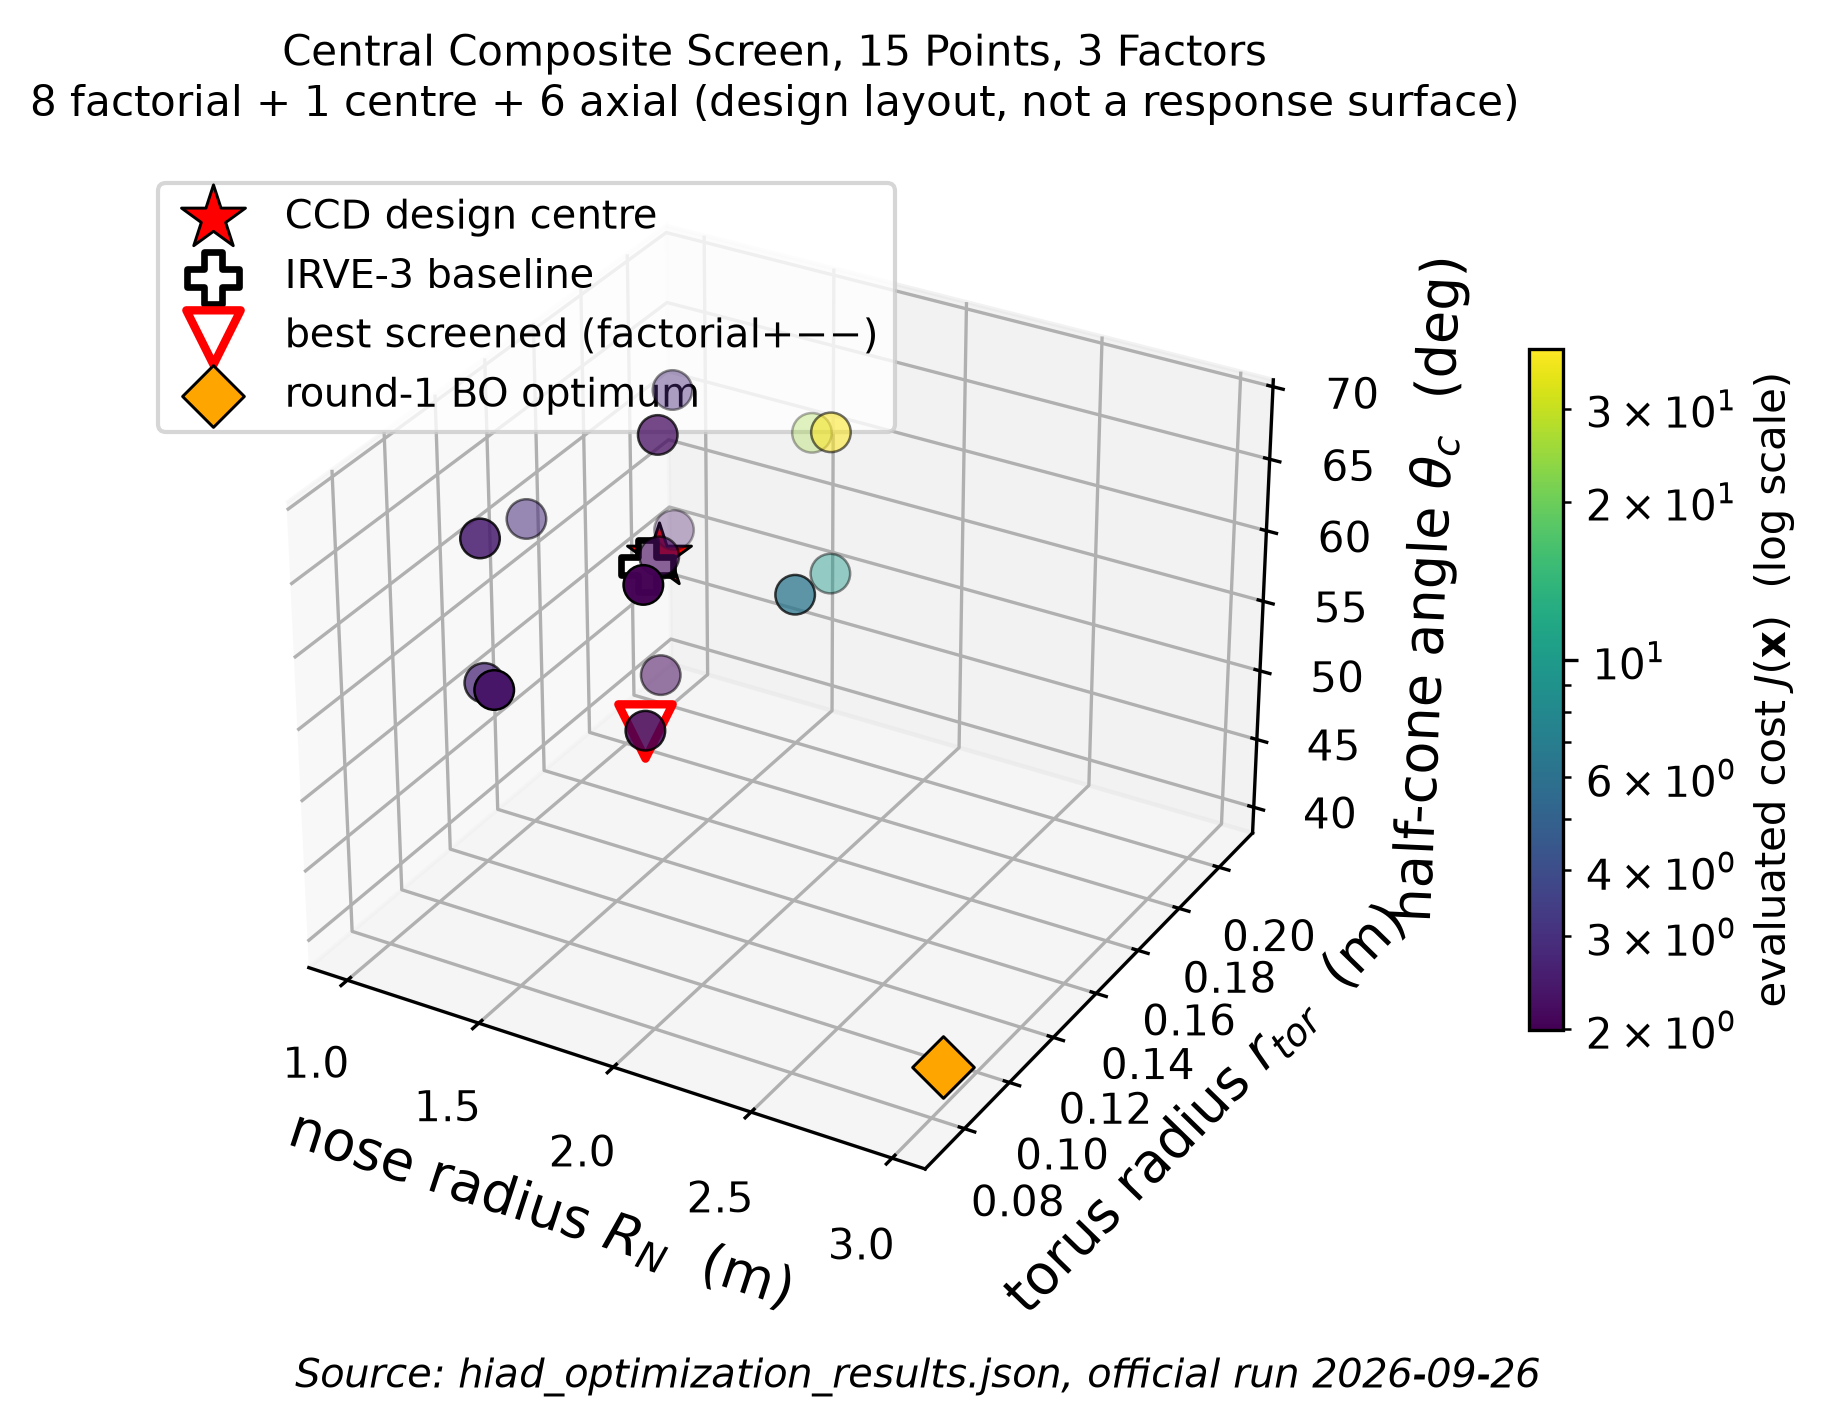
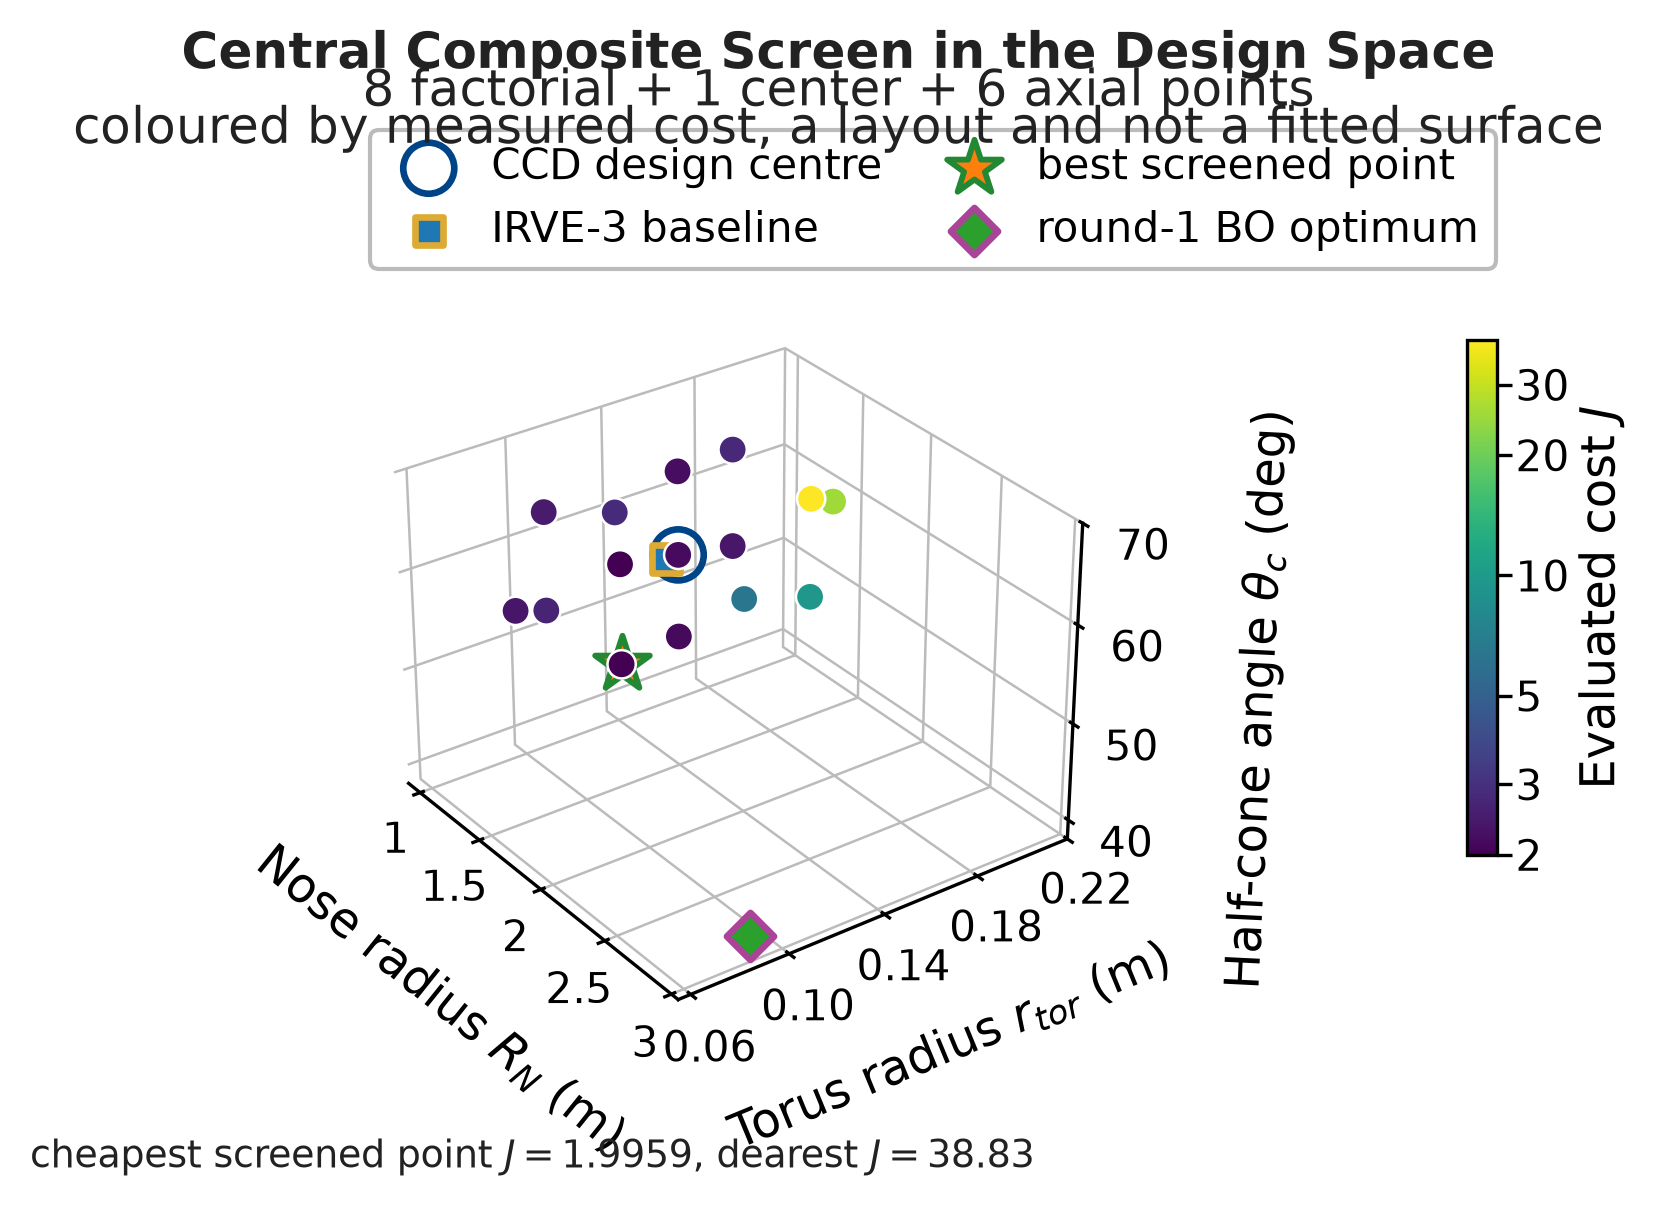
fix(thesis): A11 BO CCD legend (opaque, outside axes) + camera 15/15 points

Changed region(s): [[0.0, 0.0, 0.9855, 0.9809]]

diff --git a/Lost+Found/ProgressReport/CurrentThesisFinalReport/figures/make_bo_ccd_design.py b/Lost+Found/ProgressReport/CurrentThesisFinalReport/figures/make_bo_ccd_design.py
@@ -156,7 +156,13 @@ def build(data: dict):
     # axis labels hung 0.234 in and 0.208 in below the canvas, because labelpad
     # pushes those labels outward from the cube rather than from the axes box.
     # Raising the axes floor to 0.09 clears both with margin.
-    ax = fig.add_axes([0.00, 0.09, 0.86, 0.79], projection="3d")
+    # A11 MED: the rect changes from [0, 0.09, 0.86, 0.79] reserve the band
+    # above the cube for the two-row legend. Floor 0.09 -> 0.12 and height
+    # 0.79 -> 0.64 keep the axes top at 0.76 for that band while lifting the
+    # cube 0.12 in clear of the bottom: at the 0.67-height cube the projected
+    # y-axis label reached 0.035 in below the canvas (measured by
+    # assert_inside_canvas), and 0.12 clears it with margin.
+    ax = fig.add_axes([0.00, 0.12, 0.86, 0.64], projection="3d")
     cax = fig.add_axes([0.885, 0.28, 0.018, 0.44])
 
     norm = LogNorm(vmin=float(costs.min()), vmax=float(costs.max()))
@@ -174,21 +180,31 @@ def build(data: dict):
     best_row = samples[best_index]
 
     ring_kwargs = dict(facecolors="none", linewidths=1.6, s=150)
-    ax.scatter([float(center_row["R_N"])], [float(center_row["r_tor"])],
-               [float(center_row["half_cone_deg"])], edgecolors=CB[0], **ring_kwargs)
-    ax.scatter([float(default_row["R_N"])], [float(default_row["r_tor"])],
-               [float(default_row["half_cone_deg"])],
-               marker="s", edgecolors=CB[1], linewidths=1.6, s=44, depthshade=False)
-    ax.scatter([float(best_row["R_N"])], [float(best_row["r_tor"])],
-               [float(best_row["half_cone_deg"])],
-               marker="*", edgecolors=CB[3], linewidths=1.4, s=190, depthshade=False)
-    ax.scatter([float(optimum_row["R_N"])], [float(optimum_row["r_tor"])],
-               [float(optimum_row["half_cone_deg"])],
-               marker="D", edgecolors=CB[4], linewidths=1.6, s=64, depthshade=False)
+    ring_sc = ax.scatter([float(center_row["R_N"])], [float(center_row["r_tor"])],
+                         [float(center_row["half_cone_deg"])], edgecolors=CB[0],
+                         **ring_kwargs)
+    base_sc = ax.scatter([float(default_row["R_N"])], [float(default_row["r_tor"])],
+                         [float(default_row["half_cone_deg"])],
+                         marker="s", edgecolors=CB[1], linewidths=1.6, s=44,
+                         depthshade=False)
+    best_sc = ax.scatter([float(best_row["R_N"])], [float(best_row["r_tor"])],
+                         [float(best_row["half_cone_deg"])],
+                         marker="*", edgecolors=CB[3], linewidths=1.4, s=190,
+                         depthshade=False)
+    opt_sc = ax.scatter([float(optimum_row["R_N"])], [float(optimum_row["r_tor"])],
+                        [float(optimum_row["half_cone_deg"])],
+                        marker="D", edgecolors=CB[4], linewidths=1.6, s=64,
+                        depthshade=False)
 
     ax.set_xlim(*X_LIM)
     ax.set_ylim(*Y_LIM)
     ax.set_zlim(*Z_LIM)
+    # A11 LOW: at the default 3D view (elev 30, azim -60) the best-screened
+    # star rested on the centre ring and the two top factorial points merged
+    # into a single blob, so only about 14 of the 15 screened points were
+    # individually readable. A 6 deg azimuth change separates both pairs at
+    # print size while every axis face stays equally legible.
+    ax.view_init(elev=30, azim=-36)
     ax.set_xticks(X_TICKS)
     ax.set_xticklabels([f"{value:g}" for value in X_TICKS], fontsize=TICK_PT)
     ax.set_yticks(Y_TICKS)
@@ -224,12 +240,41 @@ def build(data: dict):
     bar.set_label("Evaluated cost $J$", fontsize=MATH_PT, labelpad=2)
     bar.outline.set_linewidth(0.8)
 
+    # A11 MED: the four reference markers were unlabeled after the marker
+    # refresh, and the shipped panel still carried the old in-axes legend
+    # whose translucent frame sat over the cube with a data point inside it
+    # and the grid showing through. The legend now lives OUTSIDE the axes as
+    # one opaque row in the band reserved above the cube: framealpha 1.0
+    # with a white face means neither grid lines nor data points can show
+    # through, and because the row sits above the cube it covers no point.
+    legend = ax.legend(
+        handles=[ring_sc, base_sc, best_sc, opt_sc],
+        labels=[
+            "CCD design centre",
+            "IRVE-3 baseline",
+            "best screened point",
+            "round-1 BO optimum",
+        ],
+        loc="lower left",
+        bbox_to_anchor=(0.0, 1.005),
+        ncol=2,
+        fontsize=TICK_PT,
+        frameon=True,
+        framealpha=1.0,
+        facecolor="white",
+        edgecolor=GRID,
+        borderpad=0.4,
+        columnspacing=1.2,
+        handletextpad=0.5,
+    )
+    legend.set_zorder(10)
+
     # The note carries the two screen extremes the surrounding text discusses.
     note = (f"cheapest screened point $J = {costs.min():.4f}$, "
             f"dearest $J = {costs.max():.2f}$")
     fig.text(0.005, 0.005, note, fontsize=NOTE_PT, color=INK, ha="left", va="bottom")
     for index, line in enumerate(TITLE_LINES):
-        fig.text(0.5, 0.985 - index * 0.040, line, fontsize=TITLE_PT,
+        fig.text(0.5, 0.985 - index * 0.032, line, fontsize=TITLE_PT,
                  fontweight="bold" if index == 0 else "normal",
                  color=INK, ha="center", va="top")
     return fig, ax
@@ -272,6 +317,8 @@ def main() -> int:
     strings = list(TITLE_LINES) + [
         "Nose radius $R_N$ (m)", "Torus radius $r_{tor}$ (m)",
         "Half-cone angle $\\theta_c$ (deg)", "Evaluated cost $J$",
+        "CCD design centre", "IRVE-3 baseline",
+        "best screened point", "round-1 BO optimum",
     ]
     pf.require_clean(*strings)
     fig, _ = build(data)

diff --git a/Lost+Found/ProgressReport/CurrentThesisFinalReport/PlotGeneratorFixNotes.md b/Lost+Found/ProgressReport/CurrentThesisFinalReport/PlotGeneratorFixNotes.md
@@ -229,6 +229,28 @@ matching swatches, callout clear of the fan, panel (b) unchanged).
 - **LOW** — Only ≈14/15 design circles individually distinguishable (3D occlusion
   under the markers). *Fix:* minor camera angle or marker size adjustment.
 
+*Disposition (2026-10-13):* FIXED in `make_bo_ccd_design.py` (the
+shipped PNG predated the marker refresh: it still carried the old
+star/plus/triangle scheme with an in-axes translucent legend, so the panel
+was regenerated from the current script first). MED (translucent legend over
+the cube): the four reference markers were unlabeled after the refresh, so a
+legend was added as a 2x2 OPAQUE row (framealpha 1.0, white face) OUTSIDE
+the axes, in a band reserved above the cube (axes rect
+[0, 0.09, 0.86, 0.79] -> [0, 0.12, 0.86, 0.64]: the floor rose 0.09 -> 0.12
+because at the shorter cube the projected y-axis label overhung the canvas by
+0.035 in, and the title line pitch 0.040 -> 0.032 keeps the subtitle clear of
+the legend band); no data point is covered and no grid line shows through.
+LOW (centre star and baseline cross overlap): the shipped star/plus scheme no
+longer exists; the baseline square is nested inside the centre ring and the
+best-screened star is a separate marker, which the camera change below
+separates in projection. LOW (about 14/15 circles distinguishable): camera
+azim -60 -> -36 (elev unchanged at 30) now renders all 15 points
+individually distinguishable (4 left-column, 6 centre-cluster, 2 teal,
+2 yellow-family, 1 diamond, verified on the render). Regen: RC=0, 1656x1207
+px, print 5.512 in, scale 0.9985, smallest printed text 8.04 pt (>= 8 pt
+floor), data loaded from the official bdddb47 campaign (16 claims verified),
+guard reports no artist overhang; PNG 259176 B, shasum256 see commit.
+
 ### A12. `figures/make_results_figs.py` → `LOFTID_mission_trajectory.png`
 - **MED** — Annotation collisions: "CG Translation"/"ACS Hold" lines touch;
   bottom-right stack ("Max Heat Rate", "Max Dynamic Pressure", "CG Translations",
